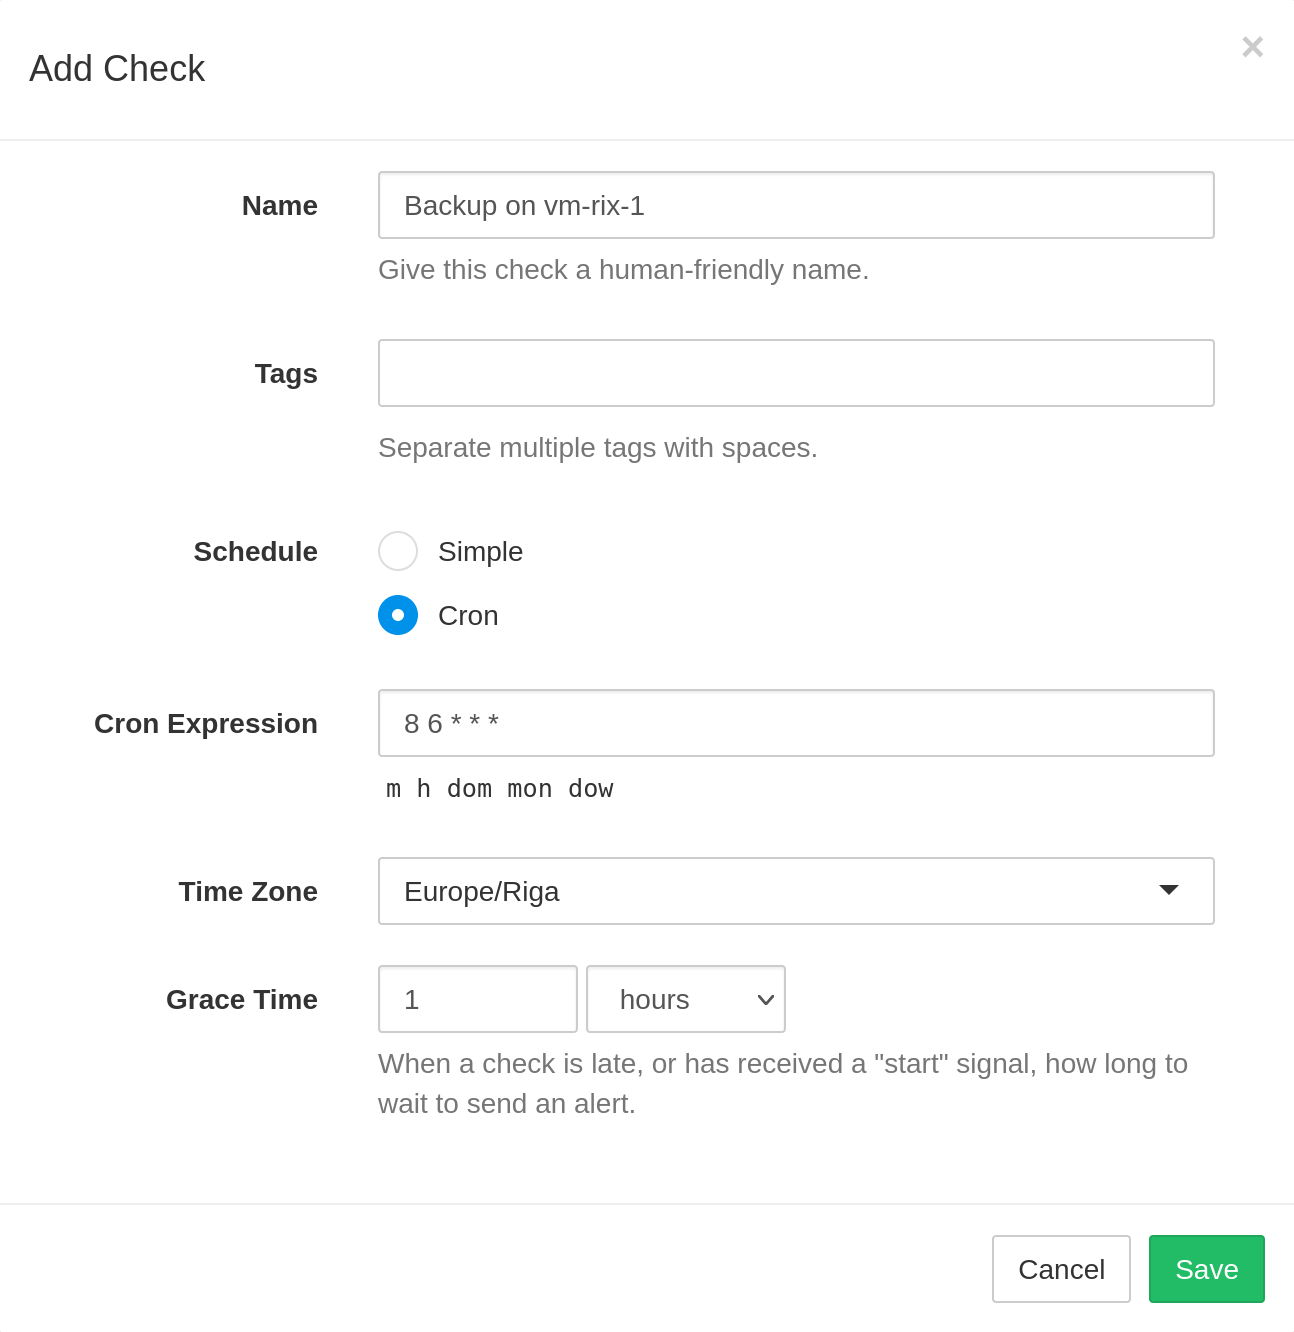
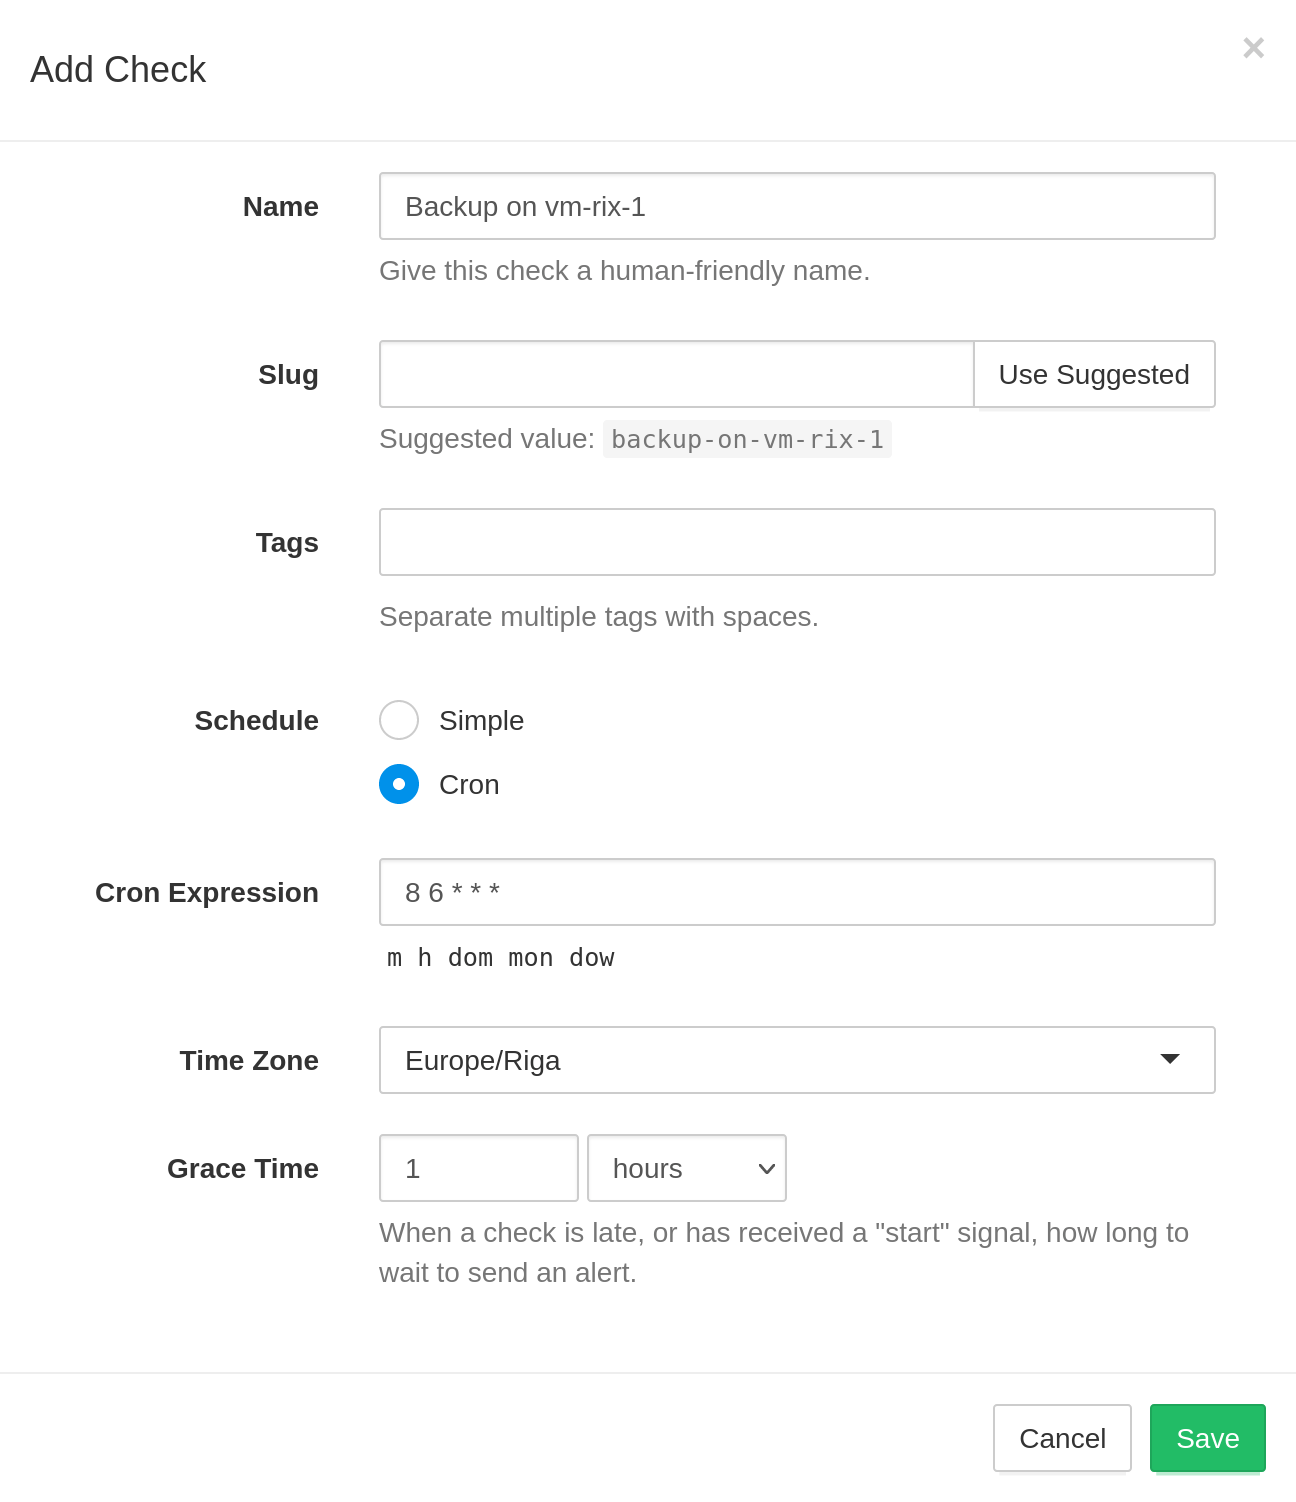
Update screenshots in docs to show the slug field

diff --git a/templates/docs/configuring_checks.md b/templates/docs/configuring_checks.md
@@ -8,7 +8,7 @@ either in SITE_NAME web interface or via [Management API](../api/).
 
 ## Name, Tags, Description
 
-Describe each check using an optional name, tags, and description fields.
+Describe each check using an optional name, slug, tags, and description fields.
 
 ![Editing name, tags and description](IMG_URL/edit_name.png)
 
@@ -16,6 +16,10 @@ Describe each check using an optional name, tags, and description fields.
 Good naming becomes especially important as you add more checks to the
 account. SITE_NAME will display check names in the web interface, in email reports,
 and in notifications.
+* **Slug**: URL-friendly identifier, used in [slug-based ping URLs](../http_api/#success-slug)
+(an alternative to the default UUID-based ping URLs). The slug should only contain the
+following characters: `a-z`, `0-9`, hyphens, underscores. If you don't plan to use
+slug-based ping URLs, you can leave the slug field empty.
 * **Tags**: a space-separated list of optional labels. Use tags to organize and group
 checks within a project. You can tag checks by the environment
 (`prod`, `staging`, `dev`, etc.) or by role (`www`, `db`, `worker`, etc.) or using
